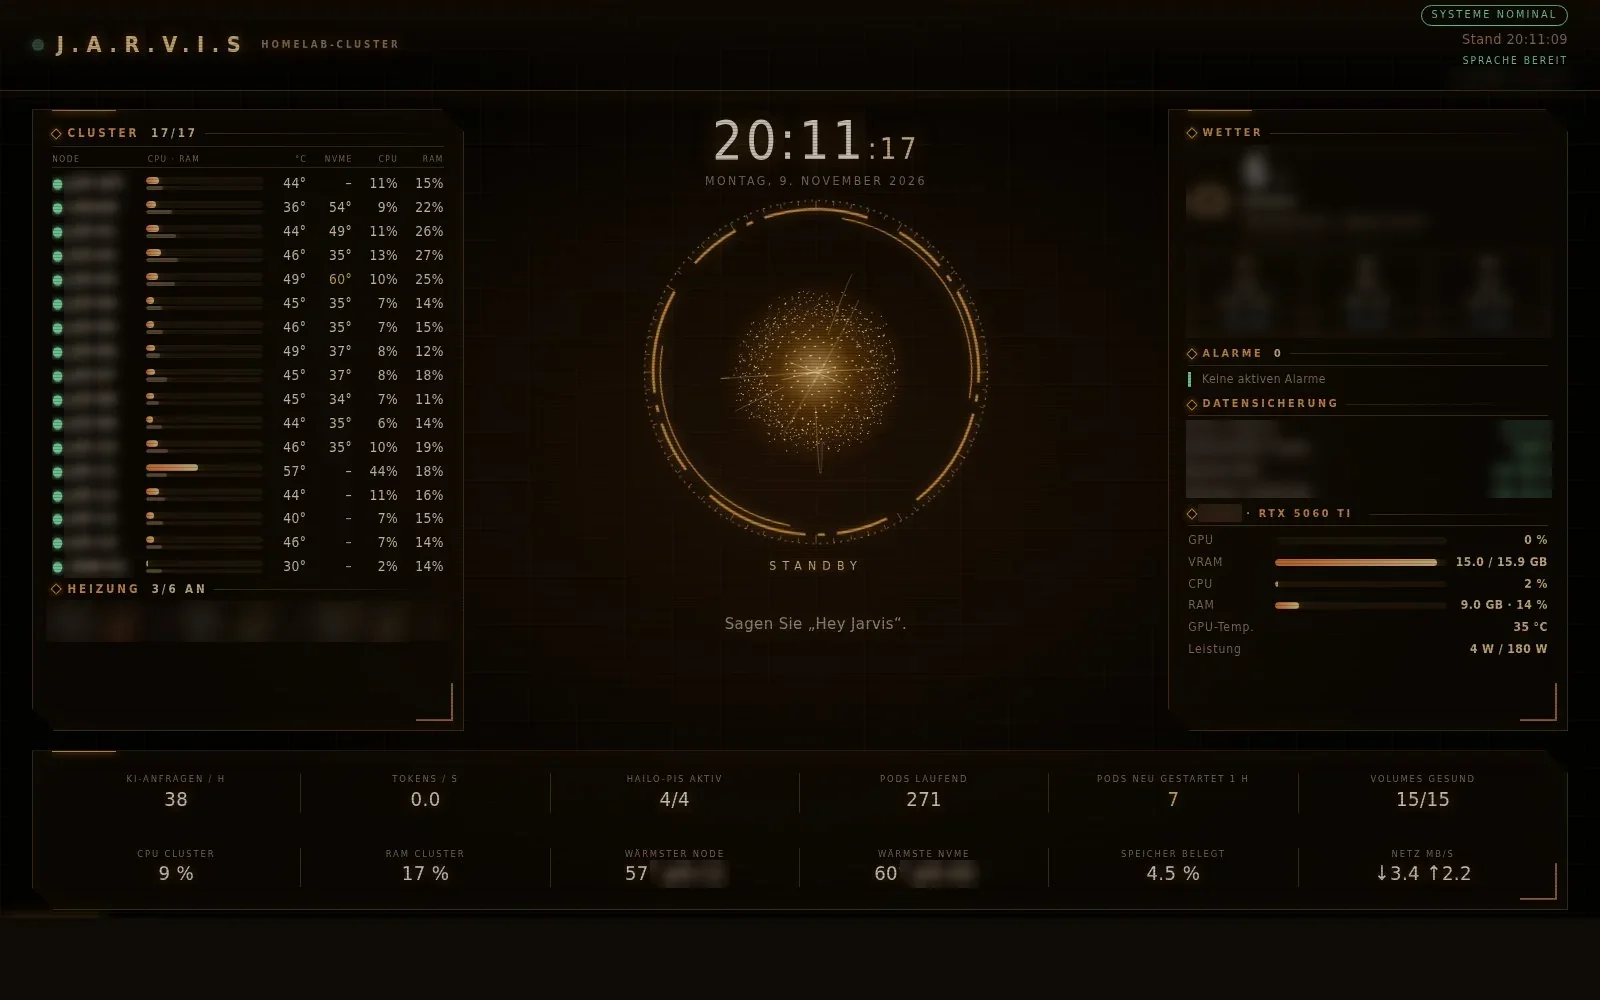
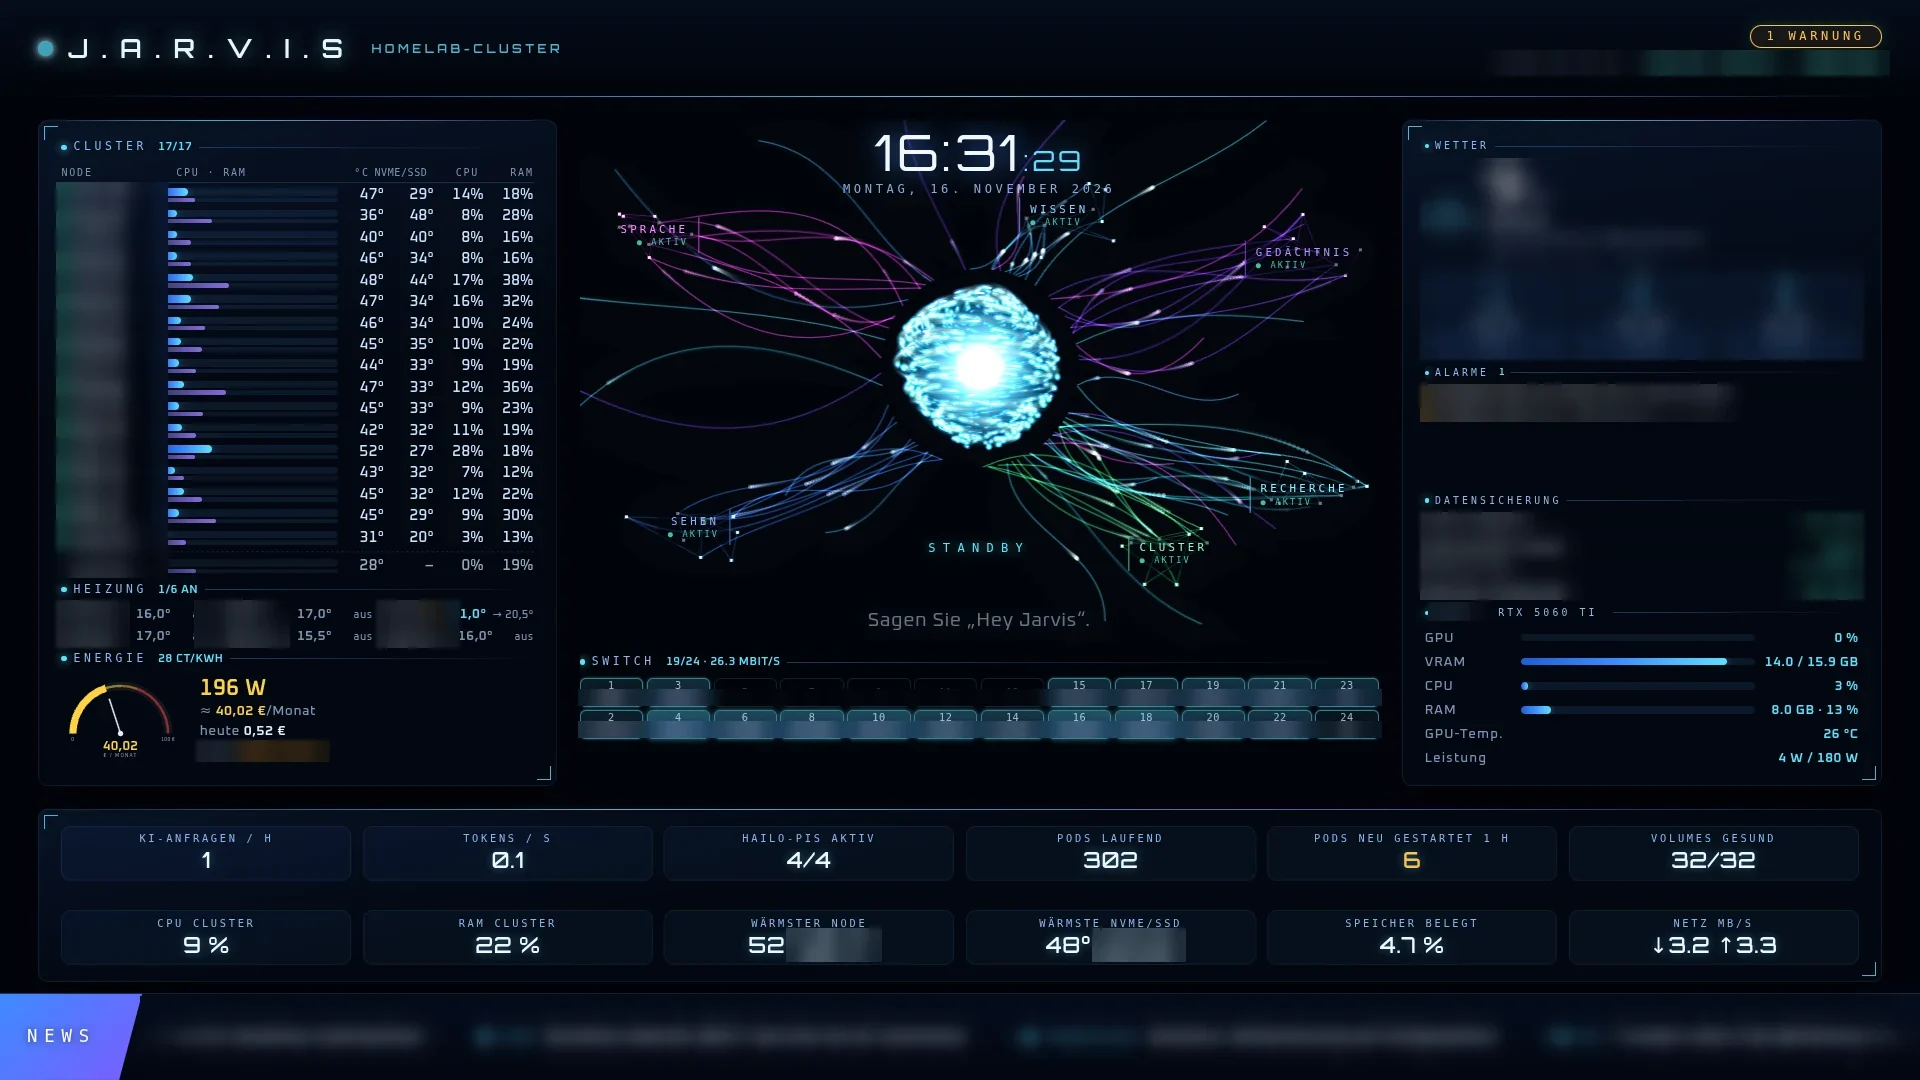
Replace HUD photo with the new 'Nachtblau' kiosk screenshot
- Progress section: new 1920x1080 kiosk HUD screenshot (neural-network
  core, switch tile) replaces the old amber photo; 16:9 framing; caption
  and alt text in all 5 locales
- Checked before publishing: node/host/room names, weather, alert text,
  backup panel, switch device names, warmest node/drive labels and the
  news ticker are pixelated; no addresses or hostnames visible
- 'New since go-live': the outdated red kiosk screenshot is removed so
  the HUD is not shown twice; the SDXL test image stays

Claude-Session: https://claude.ai/code/session_01M4YmYitLHZQZaxL3iS2pSH

diff --git a/src/components/landing/WhatsNew.tsx b/src/components/landing/WhatsNew.tsx
@@ -4,7 +4,6 @@ import type { LucideIcon } from "lucide-react";
 import { Activity, BookOpen, BrainCircuit, CalendarClock, ChevronDown, Mic, ShieldCheck, Wrench } from "lucide-react";
 import { useTranslation } from "react-i18next";
 import comfySample from "@/assets/screens/comfyui-sample.webp";
-import hudKiosk from "@/assets/screens/hud-kiosk-v2.webp";
 import { HudCorners } from "@/components/landing/HudCorners";
 import { Reveal } from "@/components/landing/Reveal";
 import { SectionHeading } from "@/components/landing/SectionHeading";
@@ -104,34 +103,19 @@ export function WhatsNew() {
         </dl>
       </Reveal>
 
-      {/* Screenshots */}
-      <div className="mx-auto mt-12 grid max-w-6xl gap-6 lg:grid-cols-[1.9fr_1fr]">
-        <Reveal>
-          <figure className="relative">
-            <HudCorners />
-            <div className="border-glow relative overflow-hidden rounded-2xl border border-border">
-              <img src={hudKiosk} alt={t("updates.alt.hud")} loading="lazy" width={1920} height={1080} className="block h-auto w-full" />
-              <span aria-hidden="true" className="absolute top-3 left-3 flex items-center gap-1.5 rounded-sm bg-background/75 px-2 py-1 font-mono text-[0.6rem] tracking-widest text-primary backdrop-blur-sm">
-                <span className="animate-rec-blink size-1.5 rounded-full bg-[var(--hud-red)]" />
-                LIVE · KIOSK-HUD
-              </span>
-            </div>
-            <figcaption className="mt-3 text-center text-sm text-muted-foreground">{t("updates.hudCaption")}</figcaption>
-          </figure>
-        </Reveal>
-        <Reveal delay={0.1}>
-          <figure className="relative">
-            <HudCorners />
-            <div className="border-glow relative overflow-hidden rounded-2xl border border-border">
-              <img src={comfySample} alt={t("updates.alt.comfy")} loading="lazy" width={1024} height={1024} className="block aspect-square h-auto w-full object-cover" />
-              <span aria-hidden="true" className="absolute top-3 left-3 rounded-sm bg-background/75 px-2 py-1 font-mono text-[0.6rem] tracking-widest text-primary backdrop-blur-sm">
-                LOCAL · SDXL
-              </span>
-            </div>
-            <figcaption className="mt-3 text-center text-sm text-muted-foreground">{t("updates.comfyCaption")}</figcaption>
-          </figure>
-        </Reveal>
-      </div>
+      {/* Locally generated image (the current HUD screenshot sits in the progress section above) */}
+      <Reveal>
+        <figure className="relative mx-auto mt-12 max-w-md">
+          <HudCorners />
+          <div className="border-glow relative overflow-hidden rounded-2xl border border-border">
+            <img src={comfySample} alt={t("updates.alt.comfy")} loading="lazy" width={1024} height={1024} className="block aspect-square h-auto w-full object-cover" />
+            <span aria-hidden="true" className="absolute top-3 left-3 rounded-sm bg-background/75 px-2 py-1 font-mono text-[0.6rem] tracking-widest text-primary backdrop-blur-sm">
+              LOCAL · SDXL
+            </span>
+          </div>
+          <figcaption className="mt-3 text-center text-sm text-muted-foreground">{t("updates.comfyCaption")}</figcaption>
+        </figure>
+      </Reveal>
       <p className="mx-auto mt-6 max-w-2xl text-center text-xs text-muted-foreground/80">{t("updates.note")}</p>
 
       {/* Legend + expand all */}

diff --git a/src/components/landing/ProgressShowcase.tsx b/src/components/landing/ProgressShowcase.tsx
@@ -33,7 +33,7 @@ export function ProgressShowcase() {
   // The HUD screenshot leads full width; dashboard photo and chat sign-in
   // sit side by side below it.
   const photos = [
-    { src: hudKiosk, caption: t("progress.hudCaption"), alt: t("progress.alt.hud"), tag: "LIVE · HUD", w: 1600, h: 1000, wide: true },
+    { src: hudKiosk, caption: t("progress.hudCaption"), alt: t("progress.alt.hud"), tag: "LIVE · HUD", w: 1920, h: 1080, wide: true },
     { src: grafanaDashboard, caption: t("progress.grafanaCaption"), alt: t("progress.alt.grafana"), tag: "LIVE · MONITORING", w: 1600, h: 909, wide: false },
     { src: chatLogin, caption: t("progress.chatCaption"), alt: t("progress.alt.chat"), tag: "LIVE · CHAT", w: 1600, h: 1000, wide: false },
   ];
@@ -61,7 +61,7 @@ export function ProgressShowcase() {
                   loading="lazy"
                   width={photo.w}
                   height={photo.h}
-                  className="block aspect-[16/10] h-auto w-full object-cover"
+                  className={`block h-auto w-full object-cover ${photo.wide ? "aspect-video" : "aspect-[16/10]"}`}
                 />
                 <span aria-hidden="true" className="absolute top-3 left-3 flex items-center gap-1.5 rounded-sm bg-background/75 px-2 py-1 font-mono text-[0.6rem] tracking-widest text-primary backdrop-blur-sm">
                   <span className="animate-rec-blink size-1.5 rounded-full bg-[var(--hud-red)]" />
